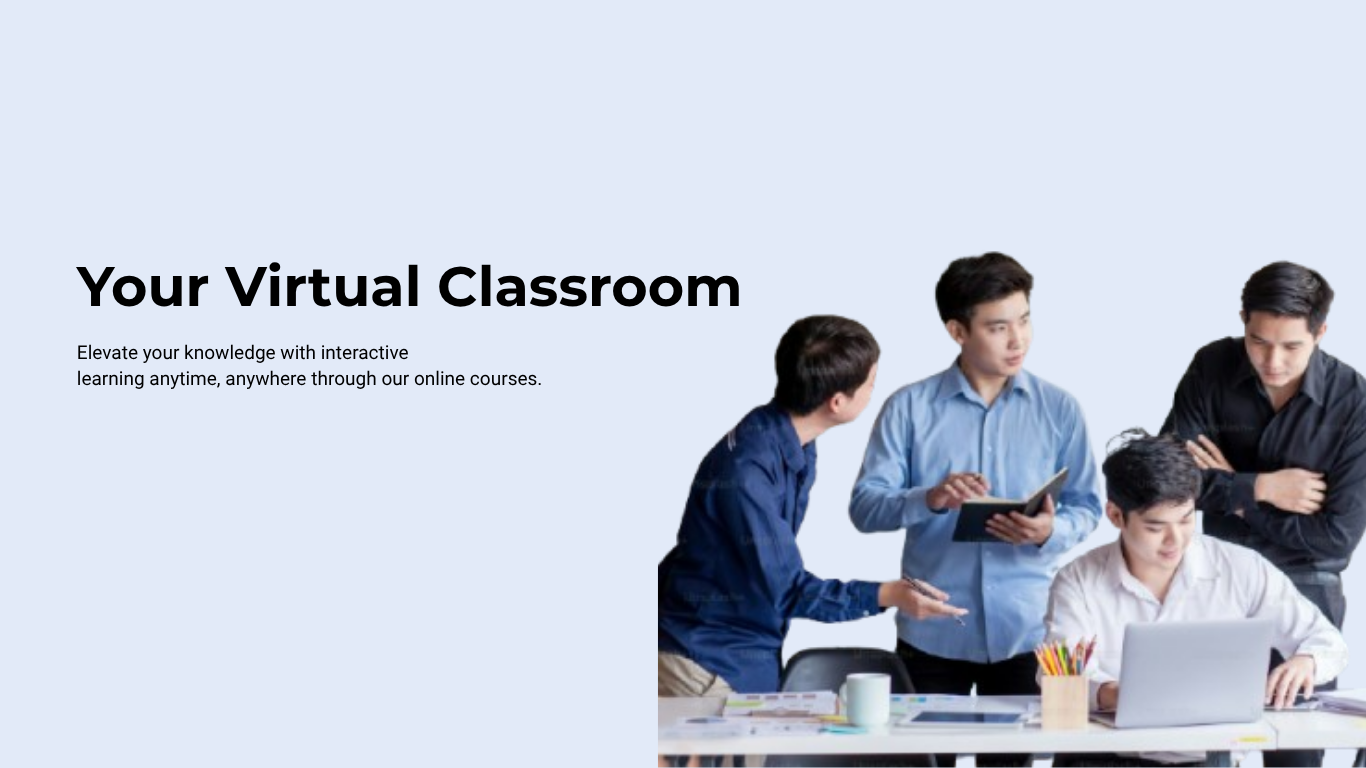
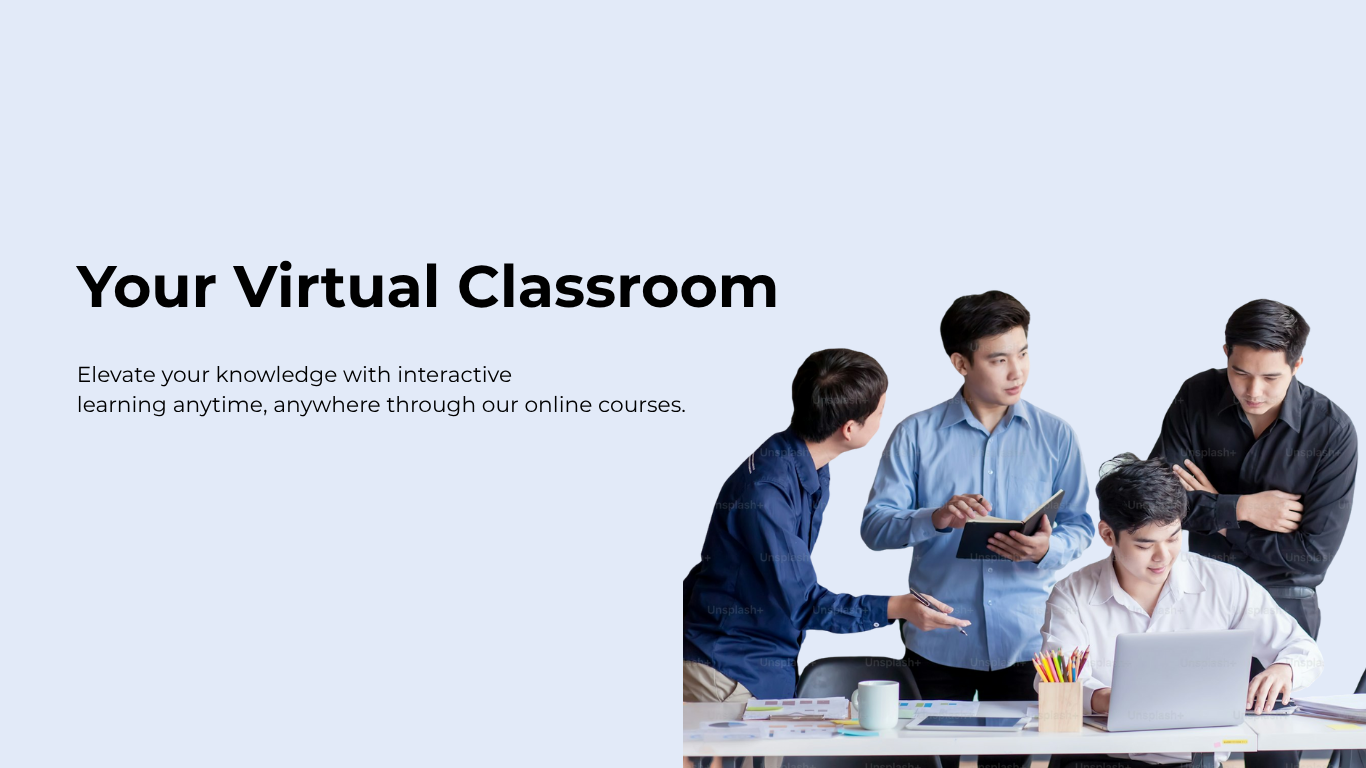
designed landing page

Changed region(s): [[0.0615, 0.3125, 1.0, 1.0], [0.0615, 0.4375, 0.4919, 0.5625]]

diff --git a/resources/views/landing.blade.php b/resources/views/landing.blade.php
@@ -4,9 +4,12 @@
     <meta charset="UTF-8">
     <meta name="viewport" content="width=device-width, initial-scale=1.0">
     <title>EDVANTAGE - Your Virtual Classroom Redefined</title>
-    <link href="https://fonts.googleapis.com/css2?family=Lora:wght@400;500;600;700&display=swap" rel="stylesheet">
+    <link href="https://fonts.googleapis.com/css2?family=Montserrat:wght@200;300;400;500;600;700&display=swap" rel="stylesheet">
     <link rel="stylesheet" href="https://cdnjs.cloudflare.com/ajax/libs/font-awesome/6.0.0/css/all.min.css">
     <style>
+        * {
+            font-family: 'Montserrat', 'Segoe UI', Tahoma, Geneva, Verdana, sans-serif !important;
+        }
         * {
             margin: 0;
             padding: 0;
@@ -58,20 +61,26 @@
             gap: 0.5rem;
             margin-right: 0.25rem; /* Reduce margin */
         }
+        .nav-menu a:hover{
+            color: #0148ad;
+        }
 
         .nav-menu a {
+            font-family: 'Montserrat', sans-serif;
             text-decoration: none;
             color: #374151;
             font-weight: 500;
-            font-size: 0.95rem;
+            font-size: 0.9rem;
             transition: color 0.3s ease;
             margin-right:1rem;
         }
 
+
         
         .auth-buttons {
+            font-family: 'Montserrat', sans-serif;
             display: flex;
-            gap: 0.5rem;
+            gap: 0.75rem;
             margin-left: auto;
             align-items: center;
         }
@@ -81,7 +90,7 @@
             border: none;
             border-radius: 5px;
             text-decoration: none;
-            font-weight: 600;
+            font-weight: 400;
             transition: all 0.3s ease;
             cursor: pointer;
         }
@@ -126,7 +135,7 @@
             padding: 0 1.5rem;
             display: flex;
             align-items: center;
-            gap: 2.5rem;
+            gap: 2.75rem;
             overflow-x: auto;
             scrollbar-width: none;
         }
@@ -159,36 +168,11 @@
             color: #727272;
         }
 
-        .cart-btn {
-            position: relative;
-        }
-
-        .cart-btn .fas.fa-shopping-cart {
-            font-size: 18px;
-        }
-
-        .cart-btn .badge {
-            position: absolute;
-            top: -6px;
-            right: 1px;
-            background: #0148ad;
-            color: white;
-            border-radius: 50%;
-            width: 22px;
-            height: 20px;
-            font-size: 12px;
-            display: flex;
-            align-items: center;
-            justify-content: center;
-            padding: 2px;
-            box-shadow: 0 0 3px rgba(0,0,0,0.2);
-        }
-
         .category-link {
-            color: #fff ;
+            font-family: 'Montserrat', sans-serif;
+            color: white ;
             font-size: 0.9rem;
-            text-decoration: none;
-            font-weight: 300;
+            text-decoration: none;   
             transition: color 0.3s ease;
             white-space: nowrap;
             padding: 0.25rem 0;
@@ -324,24 +308,23 @@
             background: #fff;
             border-radius: 5px;
             overflow: hidden;
-            border: 1px solid #e5e7eb;
+            border: 1px solid #c4c6ca;
             box-shadow: 0 2px 8px rgba(0,0,0,0.04);
             cursor: pointer;
             display: flex;
             flex-direction: column;
-            height: 340px; /* Adjust height as needed */
-            width: 280px;
+            height: 340px;      /* Fixed height */
+            width: 280px;       /* Fixed width */
             transition: box-shadow 0.2s;
-            row-gap: 4rem
             position: relative;
-            margin: 0 auto; /* Center the card */
+            margin: 0 auto;
             box-sizing: border-box;
             text-align: left;
         }
 
         .course-card:hover {
             box-shadow: 0 6px 24px rgba(0,0,0,0.10);
-            border: #0148ad 1px solid;
+            border: #0148ad 1.3px solid;
         }
 
         .course-image {
@@ -352,64 +335,85 @@
         }
 
         .course-content {
-            padding: 18px 16px 12px 16px;
+            padding: 10px 12px 8px 12px;
             display: flex;
             flex-direction: column;
-            justify-content: space-between;
-            flex: 1;
+            flex: 1 1 auto;
+            min-height: 0;
         }
 
         .course-title {
             font-size: 1.1rem;
             font-weight: 700;
             color: #1a1a1a;
-            margin-bottom: 6px;
+           
             line-height: 1.3;
             min-height: 2.4em;
+            overflow: hidden;
+            text-overflow: ellipsis;
+            white-space: nowrap;
         }
-
-        .course-instructor,
         .course-category {
             font-size: 13px;
             color: #6b7280;
             margin-bottom: 4px;
         }
 
+        .course-category-badge {
+            display: inline-block;
+            background: #e0e7ff;
+            color: #3730a3;
+            font-size: 0.85rem;
+            font-weight: 500;
+            border-radius: 16px;
+            padding: 3px 14px;
+            margin: 4px -10 6px 0; /* Less margin */
+            border: none;
+            cursor: default;
+        }
+
         .course-rating {
             display: flex;
             align-items: center;
-            gap: 4px;
-            margin-bottom: 8px;
-        }
-
-        .rating-number {
-            font-size: 12px;
-            font-weight: 600;
-            color: #f59e0b;
+            gap: 6px;
+            margin-bottom: 2px;
         }
 
         .stars {
             color: #f59e0b;
-            font-size: 12px;
+            font-size: 1rem;
+            letter-spacing: 1px;
         }
-        
+
+        .rating-number {
+            font-size: 0.95rem;
+            font-weight: 600;
+            color: #f59e0b;
+        }
 
         .rating-count {
-            font-size: 11px;
+            font-size: 0.85rem;
             color: #9ca3af;
         }
 
         .course-price {
             font-family: 'Montserrat', sans-serif;
-            font-size: 16px;
+            font-size: 1.1rem;
             font-weight: 700;
             color: #1a1a1a;
-            margin-bottom: 8px;
+            margin-top: 0;
+            margin-bottom: 2px; /* Less margin */
         }
 
         .course-actions {
             display: flex;
             gap: 6px;
+            margin-top: auto; /* Always push actions to the bottom */
+        }
+        .taka-bold {
+            font-weight: 790;
+            font-size: 1.3rem; /* Optional: slightly larger */
+            letter-spacing: 0.5px; /* Optional: for clarity */
         }
 
         .btn-details {
@@ -417,12 +421,13 @@
             background: #f3f4f6;
             color: #374151;
             text-align: center;
-            padding: 6px 8px;
+            padding: 6px 4px;
             border-radius: 4px;
             text-decoration: none;
             font-size: 11px;
             font-weight: 600;
             transition: all 0.3s ease;
+            border-color: #e2e3e4;
         }
 
         .btn-details:hover {
@@ -447,7 +452,7 @@
         }
 
         #loadMoreBtn {
-            padding: 1rem 2rem;
+            padding: 0.5rem 1rem;
             font-size: 1.2rem;
             border-radius: 5px;
             font-weight: 500;
@@ -492,7 +497,7 @@
 </head>
 <body>
     <!-- Place the category bar immediately after the header -->
-    <div class="category-bar" style="top:56px;">
+    <div class="category-bar" style="top:56px; font-weight: 50;">
         @foreach($uniqueCategories as $category)
             <a href="#" class="category-link">{{$category}}</a>
         @endforeach
@@ -544,41 +549,45 @@
             <!-- Show only one row of courses and add a "Load More" button -->
             <div class="courses-grid" id="coursesGrid">
                 @foreach($courses as $index => $course)
-                    <div class="course-card" style="{{ $index >= 4 ? 'display:none;' : '' }}">
-                        <!-- Course Image -->
-                        @if($course->image)
-                            <img src="{{ asset('storage/' . $course->image) }}" alt="{{ $course->title }}" class="course-image">
-                        @else
-                            <img src="https://via.placeholder.com/300x140?text=Course+Image" alt="{{ $course->title }}" class="course-image">
-                        @endif
+                <div class="course-card" style="{{ $index >= 4 ? 'display:none;' : '' }}">
+    <!-- Course Image -->
+    @if($course->image)
+        <img src="{{ asset('storage/' . $course->image) }}" alt="{{ $course->title }}" class="course-image">
+    @else
+        <img src="https://via.placeholder.com/300x140?text=Course+Image" alt="{{ $course->title }}" class="course-image">
+    @endif
 
-                        <!-- Course Content -->
-                        <div class="course-content">
-                            <div>
-                                <h3 class="course-title">{{ $course->title }}</h3>
-                                @if(isset($course->instructor))
-                                    <div class="course-instructor">{{ $course->instructor }}</div>
-                                @endif
-                                @if(isset($course->category))
-                                    <div class="course-category" style="font-size:13px; color:#6b7280; margin-bottom:4px;">
-                                        {{ $course->category }}
-                                    </div>
-                                @endif
-                            </div>
-                            <div>
-                                <div class="course-price">${{ number_format($course->price ?? 0, 2) }}</div>
-                                <div class="course-actions">
-                                    <a href="{{ route('courses.details', $course->id) }}" class="btn-details">
-                                        Details
-                                    </a>
-                                    <form action="{{ route('cart.add', $course->id) }}" method="POST" style="display: inline;">
-                                        @csrf
-                                        <button type="submit" class="btn-cart">Add to Cart</button>
-                                    </form>
-                                </div>
-                            </div>
-                        </div>
-                    </div>
+    <!-- Course Content -->
+    <div class="course-content">
+        <h3 class="course-title">{{ $course->title }}</h3>
+        @if(isset($course->category))
+            <span class="course-category-badge">{{ $course->category }}</span>
+        @endif
+
+        <div class="course-rating">
+            <span class="stars">★★★★★</span>
+            <span class="rating-number">4.8</span>
+            <span class="rating-count">(120)</span>
+        </div>
+
+        <div class="course-price">
+            <span class="taka-bold">৳</span> {{ number_format($course->price ?? 0, 0) }}
+        </div>
+        <div class="course-actions">
+            <a href="{{ route('courses.details', $course->id) }}" class="btn-details">
+                Details
+            </a>
+            @guest
+            <form method="POST" action="{{ route('cart.guest.add') }}">
+                @csrf
+                <input type="hidden" name="course_id" value="{{ $course->id }}">
+                <button type="submit" class="btn btn-primary">Add to Cart</button>
+            </form>
+            @endguest
+        </div>
+    </div>
+</div>
+ 
                 @endforeach
             </div>
 
